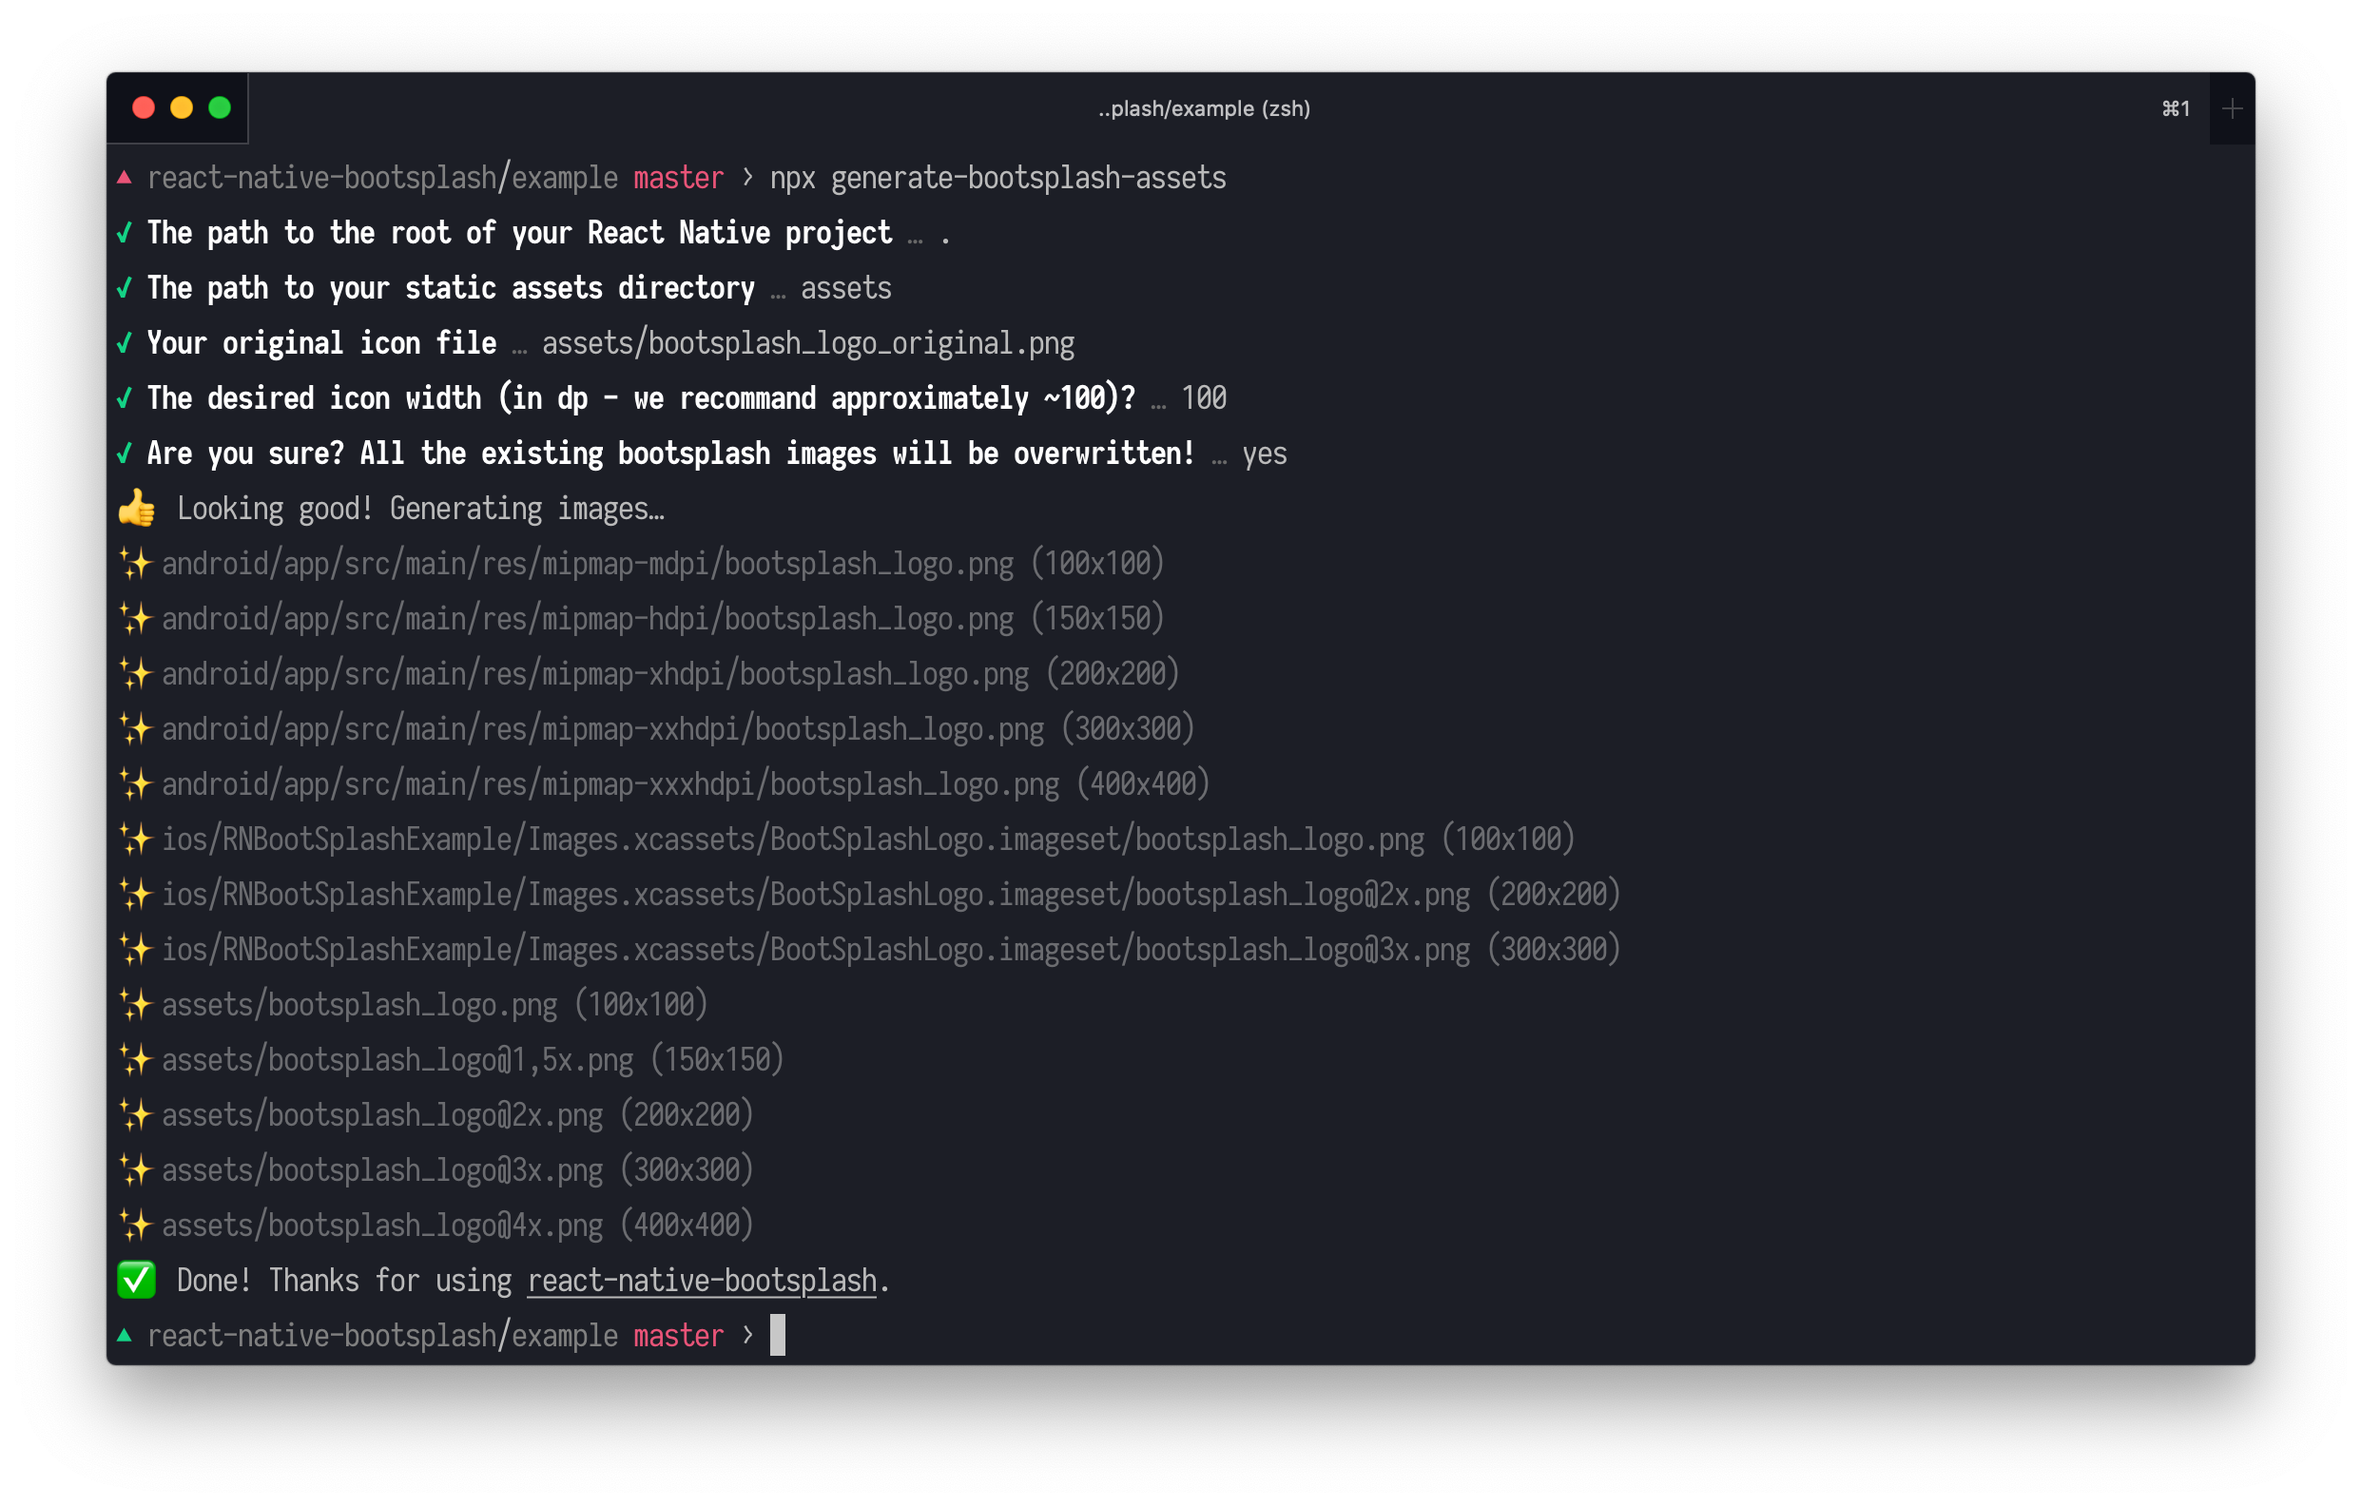
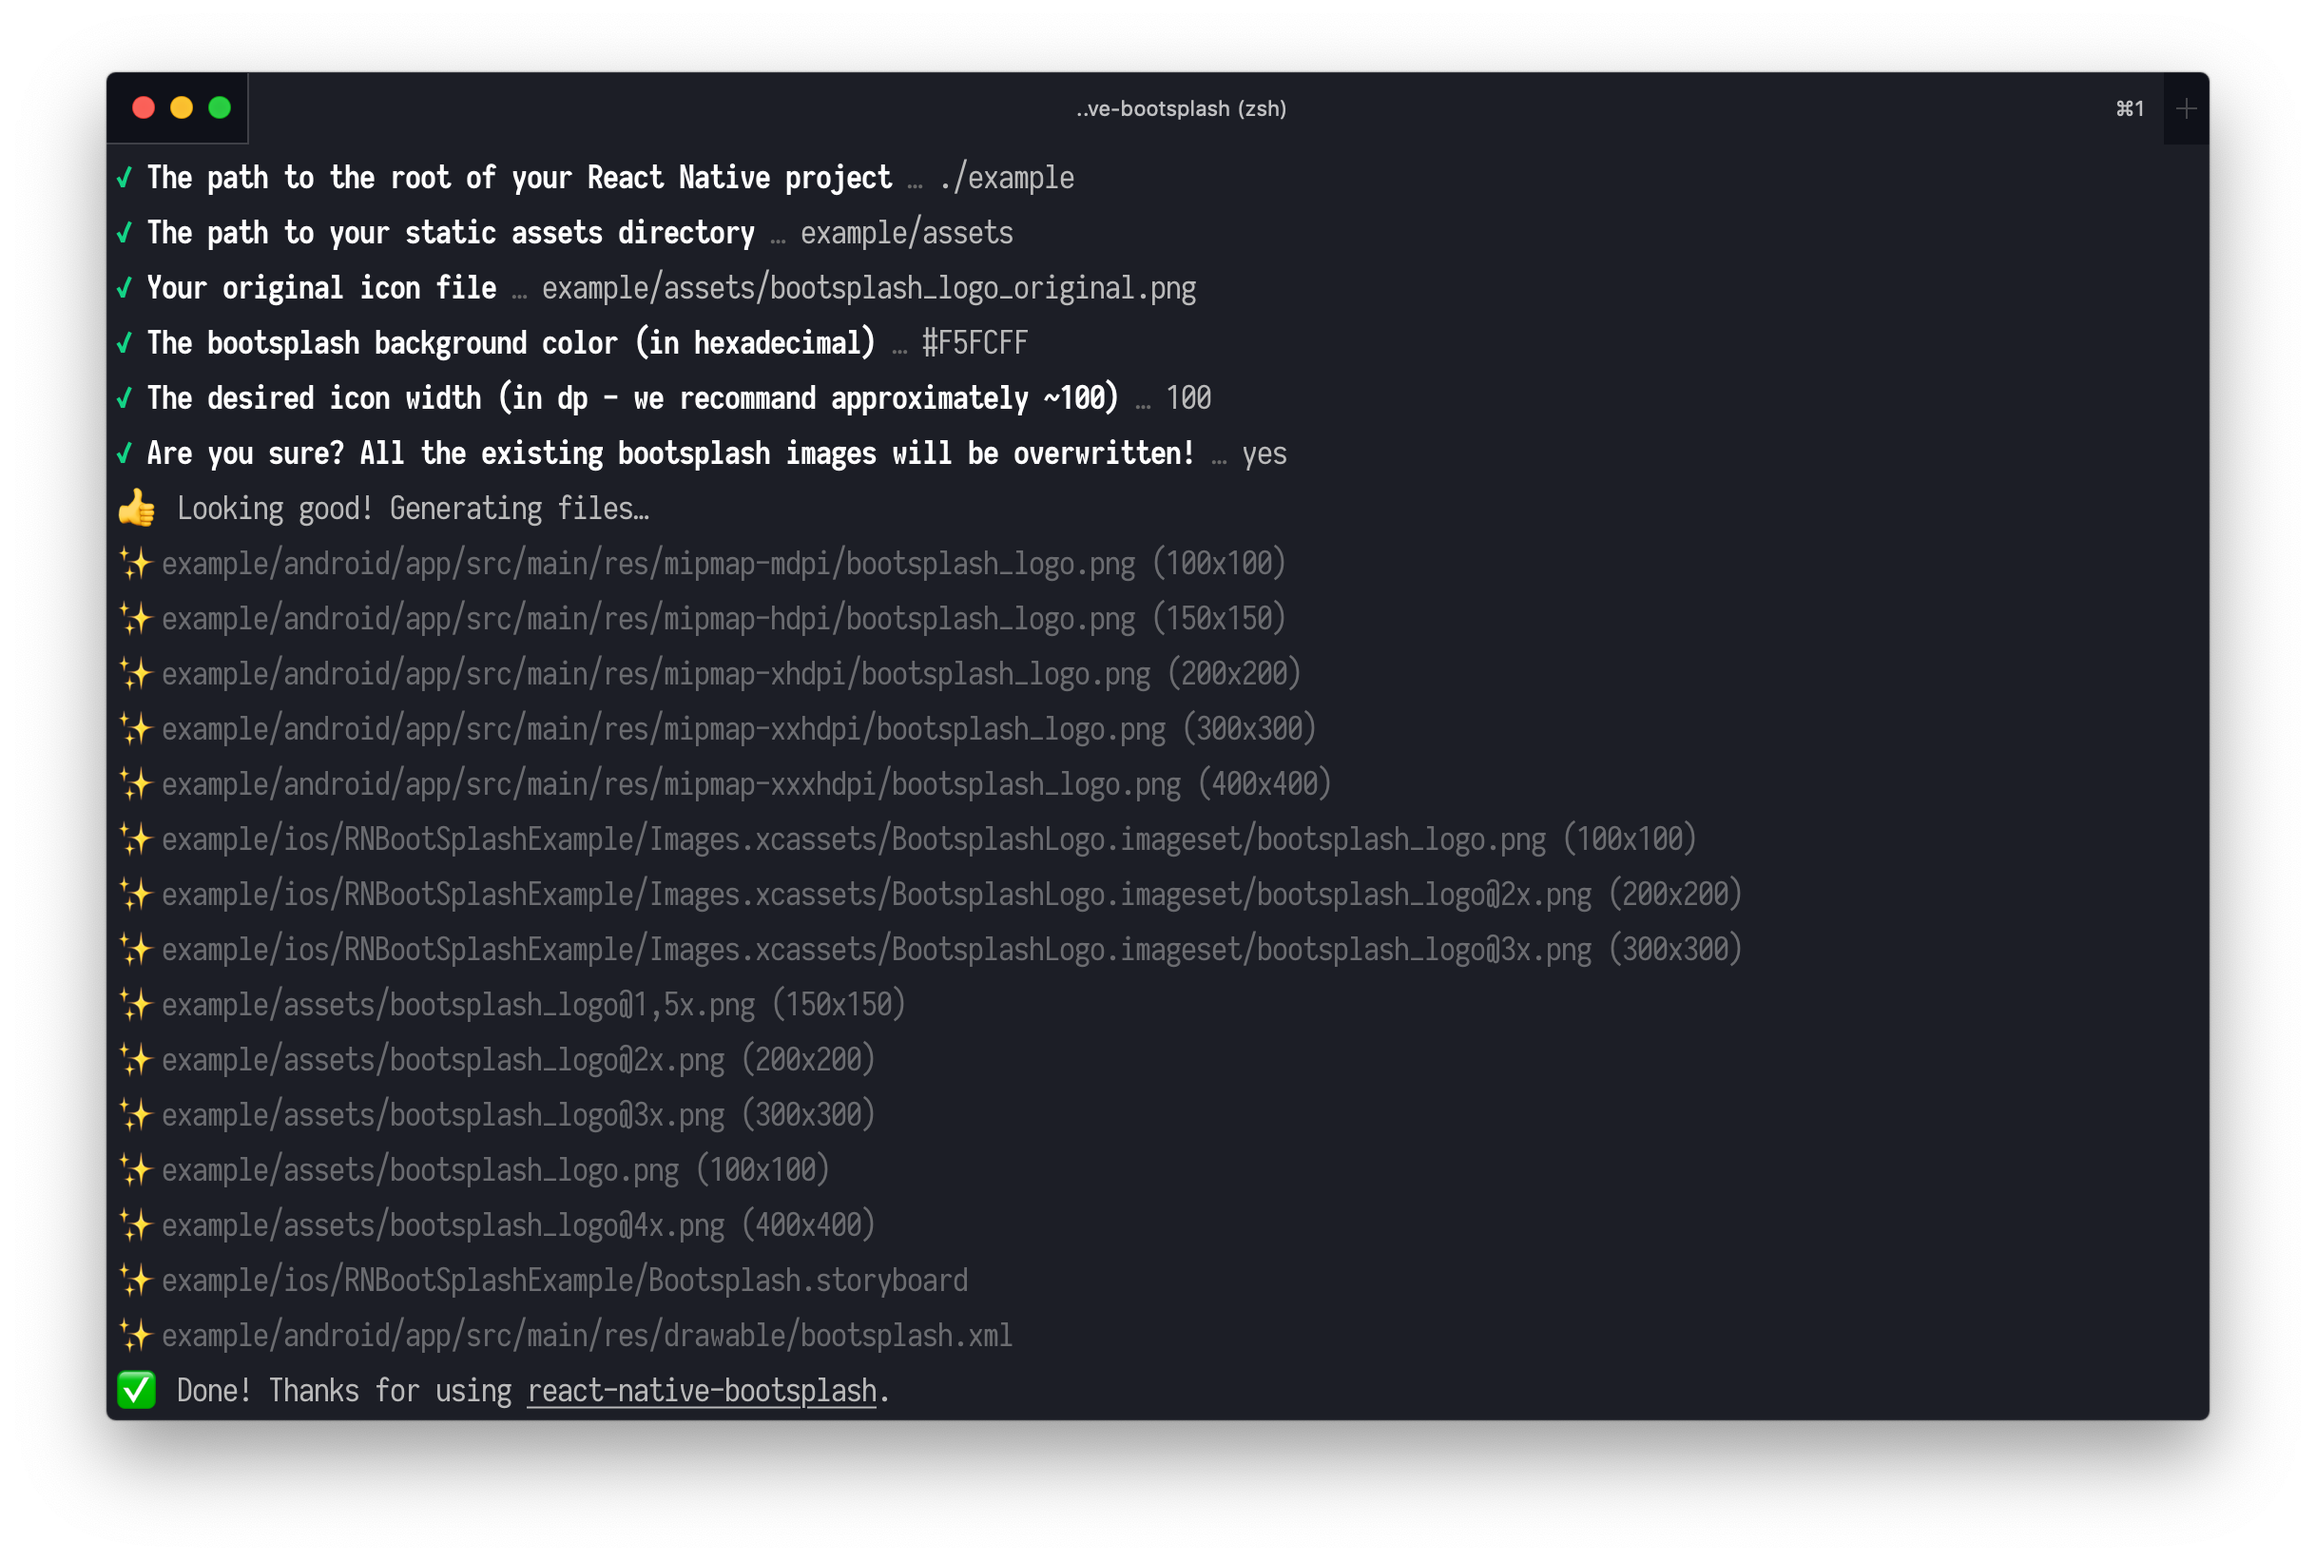
2.0.0 documentation

Changed region(s): [[0.0312, 0.0309, 0.936, 0.928], [0.9048, 0.0619, 0.936, 0.0928]]

diff --git a/README.md b/README.md
@@ -91,9 +91,42 @@ public class MainApplication extends Application implements ReactApplication {
 
 ## Setup
 
-#### iOS
+### Assets generation
 
-_⚠ Currently, only `.xib` are supported (no `.storyboard` or `.launchImages`)._
+In order to speed up the setup, we provide a **CLI** to resize assets, create the Android Drawable XML file and the iOS Storyboard file automatically ✨.
+
+```bash
+$ npx generate-bootsplash
+# --- or ---
+$ yarn generate-bootsplash
+```
+
+![](https://raw.githubusercontent.com/zoontek/react-native-bootsplash/master/scripts/screenshot.png?raw=true)
+
+This tool relies on the naming conventions that are used in the `/example` project and will therefore create the following files:
+
+```bash
+<PROJECT_ROOT>/android/app/src/main/res/drawable/bootsplash.xml
+<PROJECT_ROOT>/android/app/src/main/res/mipmap-hdpi/bootsplash_logo.png
+<PROJECT_ROOT>/android/app/src/main/res/mipmap-mdpi/bootsplash_logo.png
+<PROJECT_ROOT>/android/app/src/main/res/mipmap-xhdpi/bootsplash_logo.png
+<PROJECT_ROOT>/android/app/src/main/res/mipmap-xxhdpi/bootsplash_logo.png
+<PROJECT_ROOT>/android/app/src/main/res/mipmap-xxxhdpi/bootsplash_logo.png
+<PROJECT_ROOT>/assets/bootsplash_logo.png
+<PROJECT_ROOT>/assets/bootsplash_logo@1,5x.png
+<PROJECT_ROOT>/assets/bootsplash_logo@2x.png
+<PROJECT_ROOT>/assets/bootsplash_logo@3x.png
+<PROJECT_ROOT>/assets/bootsplash_logo@4x.png
+
+<PROJECT_ROOT>/ios/RNBootSplashExample/Bootsplash.storyboard
+<PROJECT_ROOT>/ios/RNBootSplashExample/Images.xcassets/BootsplashLogo.imageset/bootsplash_logo.png
+<PROJECT_ROOT>/ios/RNBootSplashExample/Images.xcassets/BootsplashLogo.imageset/bootsplash_logo@2x.png
+<PROJECT_ROOT>/ios/RNBootSplashExample/Images.xcassets/BootsplashLogo.imageset/bootsplash_logo@3x.png
+```
+
+### iOS
+
+_⚠ Only `.storyboard` are supported ([Apple will deprecate other methods in avril 2020](https://developer.apple.com/news/?id=01132020b))._
 
 Edit the `ios/YourProjectName/AppDelegate.m` file:
 
@@ -113,38 +146,20 @@ Edit the `ios/YourProjectName/AppDelegate.m` file:
   // …
 
   [self.window makeKeyAndVisible];
-  [RNBootSplash show:@"LaunchScreen" inView:rootView]; // <- display the "LaunchScreen" xib view over our rootView
+  [RNBootSplash initWithStoryboard:@"Bootsplash" viewController:rootViewController]; // <- display the generated Bootsplash.storyboard over our rootViewController
   return YES;
 }
 ```
 
-#### Android
+### Android
 
-1. Create a `bootsplash.xml` file in `android/app/src/main/res/drawable` (create the folder if necessary). You can customize this as you want.
-
-```xml
-<?xml version="1.0" encoding="utf-8"?>
-
-<layer-list xmlns:android="http://schemas.android.com/apk/res/android" android:opacity="opaque">
-  <!-- the background color. it can be a system color or a custom one defined in colors.xml -->
-  <item android:drawable="@android:color/white" />
-
-  <item>
-    <!-- your logo, centered horizontally and vertically -->
-    <bitmap
-      android:src="@mipmap/bootsplash_logo"
-      android:gravity="center" />
-  </item>
-</layer-list>
-```
-
-2. Edit the `android/app/src/main/java/com/yourprojectname/MainActivity.java` file:
+1. Edit the `android/app/src/main/java/com/yourprojectname/MainActivity.java` file:
 
 ```java
-import android.os.Bundle; // <- add necessary import
+import android.os.Bundle; // <- add this necessary import
 
 import com.facebook.react.ReactActivity;
-import com.zoontek.rnbootsplash.RNBootSplash; // <- add necessary import
+import com.zoontek.rnbootsplash.RNBootSplash; // <- add this necessary import
 
 public class MainActivity extends ReactActivity {
 
@@ -153,7 +168,7 @@ public class MainActivity extends ReactActivity {
   @Override
   protected void onCreate(Bundle savedInstanceState) {
     super.onCreate(savedInstanceState);
-    RNBootSplash.show(R.drawable.bootsplash, MainActivity.this); // <- display the "bootsplash" xml view over our MainActivity
+    RNBootSplash.init(R.drawable.bootsplash, MainActivity.this); // <- display the generated bootsplash.xml drawable over our MainActivity
   }
 ```
 
@@ -172,7 +187,7 @@ As Android will not create our main activity before launching the app, we need t
   <!-- Add the following lines -->
   <!-- BootTheme should inherit from AppTheme -->
   <style name="BootTheme" parent="AppTheme">
-    <!-- set bootsplash.xml as activity background -->
+    <!-- set the generated bootsplash.xml drawable as activity background -->
     <item name="android:background">@drawable/bootsplash</item>
   </style>
 
@@ -221,7 +236,45 @@ As Android will not create our main activity before launching the app, we need t
 </manifest>
 ```
 
-## Usage
+## API
+
+### hide()
+
+#### Method type
+
+```ts
+type hide = (config?: { duration?: number }) => void;
+```
+
+#### Usage
+
+```js
+import RNBootSplash from "react-native-bootsplash";
+
+RNBootSplash.hide(); // immediate
+RNBootSplash.hide({ duration: 250 }); // fade
+```
+
+---
+
+### show()
+
+#### Method type
+
+```ts
+type show = (config?: { duration?: number }) => void;
+```
+
+#### Usage
+
+```js
+import RNBootSplash from "react-native-bootsplash";
+
+RNBootSplash.show(); // immediate
+RNBootSplash.show({ duration: 250 }); // fade
+```
+
+## Real world example
 
 ```js
 import React, { useEffect } from "react";
@@ -235,7 +288,6 @@ function App() {
 
   useEffect(() => {
     init().finally(() => {
-      // without fadeout: RNBootSplash.hide()
       RNBootSplash.hide({ duration: 250 });
     });
   }, []);
@@ -247,38 +299,6 @@ function App() {
 **🤙 A more complex example is available in the [`/example` folder](example).**
 
 ## Guides
-
-### Generate image assets
-
-You can automatically updates your project assets to use a consistent looking icon!
-
-![](https://raw.githubusercontent.com/zoontek/react-native-bootsplash/HEAD/scripts/screenshot.png?raw=true)
-
-```bash
-$ npx generate-bootsplash
-# --- or ---
-$ yarn generate-bootsplash
-```
-
-This tool currently relies on the naming conventions that are used in the `/example` project, and will therefore create the following files:
-
-```bash
-<path/to/project>/assets/bootsplash_logo.png
-<path/to/project>/assets/bootsplash_logo@1,5x.png
-<path/to/project>/assets/bootsplash_logo@2x.png
-<path/to/project>/assets/bootsplash_logo@3x.png
-<path/to/project>/assets/bootsplash_logo@4x.png
-
-<path/to/project>/android/app/src/main/res/mipmap-mdpi/bootsplash_logo.png
-<path/to/project>/android/app/src/main/res/mipmap-hdpi/bootsplash_logo.png
-<path/to/project>/android/app/src/main/res/mipmap-xhdpi/bootsplash_logo.png
-<path/to/project>/android/app/src/main/res/mipmap-xxhdpi/bootsplash_logo.png
-<path/to/project>/android/app/src/main/res/mipmap-xxxhdpi/bootsplash_logo.png
-
-<path/to/project>/ios/RNBootSplashExample/Images.xcassets/BootSplashLogo.imageset/bootsplash_logo.png
-<path/to/project>/ios/RNBootSplashExample/Images.xcassets/BootSplashLogo.imageset/bootsplash_logo@2x.png
-<path/to/project>/ios/RNBootSplashExample/Images.xcassets/BootSplashLogo.imageset/bootsplash_logo@3x.png
-```
 
 ### Handle deep linking (on Android)
 
